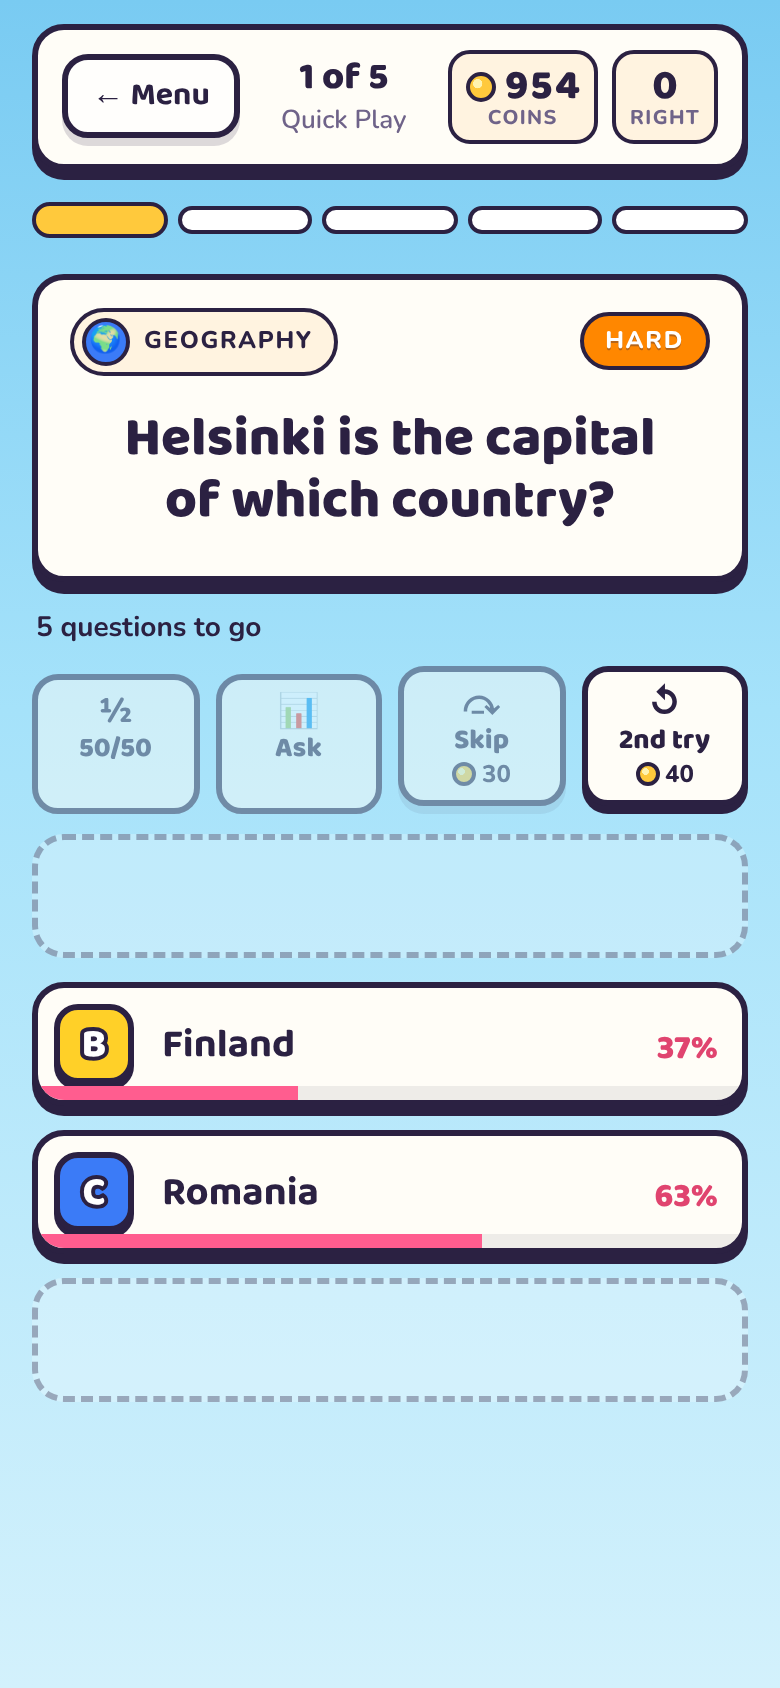
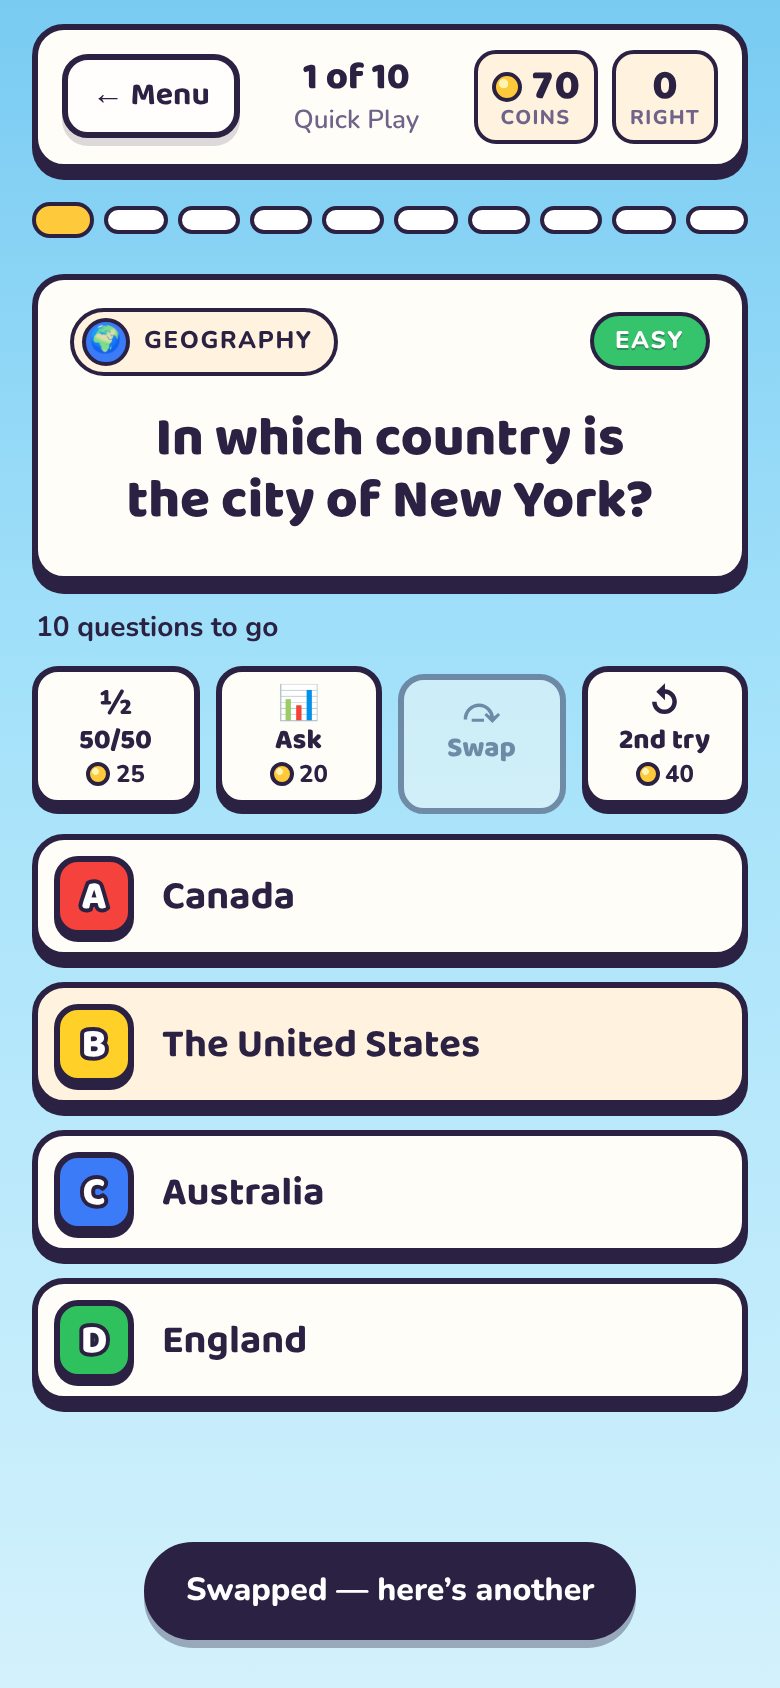
Call the Skip lifeline Swap
Button, how-to text, toast and README now say Swap; the keyboard key is
S. The internal key stays 'skip' so saved climbs keep their prices.
Build 17.

Claude-Session: https://claude.ai/code/session_013yA3rztD73qoU47xufJn3t

diff --git a/index.html b/index.html
@@ -7,11 +7,11 @@
 <meta name="theme-color" content="#79cbf2">
 <meta name="apple-mobile-web-app-title" content="Endless Quiz">
 <link rel="icon" href="favicon.ico" sizes="any">
-<link rel="icon" href="assets/favicon-32.png?v=16" type="image/png" sizes="32x32">
-<link rel="apple-touch-icon" href="assets/apple-touch-icon.png?v=16">
+<link rel="icon" href="assets/favicon-32.png?v=17" type="image/png" sizes="32x32">
+<link rel="apple-touch-icon" href="assets/apple-touch-icon.png?v=17">
 <link rel="manifest" href="manifest.webmanifest">
-<link rel="stylesheet" href="fonts.css?v=16">
-<link rel="stylesheet" href="styles.css?v=16">
+<link rel="stylesheet" href="fonts.css?v=17">
+<link rel="stylesheet" href="styles.css?v=17">
 </head>
 <body>
 
@@ -109,9 +109,9 @@
         <span class="lifeline__name">Ask</span>
         <span class="lifeline__cost"><i class="coin" aria-hidden="true"></i><span></span></span>
       </button>
-      <button class="lifeline" type="button" data-life="skip" aria-label="Skip: swap for another question">
+      <button class="lifeline" type="button" data-life="skip" aria-label="Swap: get a different question">
         <span class="lifeline__icon" aria-hidden="true">⤼</span>
-        <span class="lifeline__name">Skip</span>
+        <span class="lifeline__name">Swap</span>
         <span class="lifeline__cost"><i class="coin" aria-hidden="true"></i><span></span></span>
       </button>
       <button class="lifeline" type="button" data-life="retry" aria-label="Second chance: if you get it wrong, pick again">
@@ -373,7 +373,7 @@
       <article class="card guide__card">
         <div class="guide__art" aria-hidden="true">
           <span class="lifeline lifeline--mini"><b>50/50</b><span class="lifeline__cost"><i class="coin"></i>25</span></span>
-          <span class="lifeline lifeline--mini"><b>Skip</b><span class="lifeline__cost"><i class="coin"></i>30</span></span>
+          <span class="lifeline lifeline--mini"><b>Swap</b><span class="lifeline__cost"><i class="coin"></i>30</span></span>
         </div>
         <h3 class="card__title">Coins &amp; the 50/50</h3>
         <p>Every right answer earns coins. Harder questions pay more:</p>
@@ -387,7 +387,7 @@
         <ul class="sheet__list">
           <li><b>50/50</b> removes two wrong answers.</li>
           <li><b>Ask the audience</b> shows how a crowd voted. They’re usually right on easy questions — less so on hard ones.</li>
-          <li><b>Skip</b> swaps the question for another just as hard.</li>
+          <li><b>Swap</b> trades the question for another just as hard.</li>
           <li><b>Second chance</b>: if your answer is wrong, you get to pick again instead of losing the question.</li>
         </ul>
         <p>Each lifeline’s price <b>doubles</b> every time you use it in the same game. A question you get right with help pays half. There are no lifelines in the Daily Quiz.</p>
@@ -426,14 +426,14 @@
 
 <p id="toast" class="toast" role="status" hidden></p>
 
-<script src="js/questions.js?v=16"></script>
-<script src="js/bank.js?v=16"></script>
-<script src="js/levels.js?v=16"></script>
-<script src="js/store.js?v=16"></script>
-<script src="js/sound.js?v=16"></script>
-<script src="js/native.js?v=16"></script>
-<script src="js/daily.js?v=16"></script>
-<script src="js/reminders.js?v=16"></script>
-<script src="js/app.js?v=16"></script>
+<script src="js/questions.js?v=17"></script>
+<script src="js/bank.js?v=17"></script>
+<script src="js/levels.js?v=17"></script>
+<script src="js/store.js?v=17"></script>
+<script src="js/sound.js?v=17"></script>
+<script src="js/native.js?v=17"></script>
+<script src="js/daily.js?v=17"></script>
+<script src="js/reminders.js?v=17"></script>
+<script src="js/app.js?v=17"></script>
 </body>
 </html>

diff --git a/js/app.js b/js/app.js
@@ -18,7 +18,7 @@
  * — answers in the same places — for anyone.
  *
  * Coins are earned by answering and spent on lifelines — 50/50, Ask the
- * audience, Skip and Second chance. Each one's price doubles every time it is
+ * audience, Swap and Second chance. Each one's price doubles every time it is
  * used in a game, each can be used once per question, and a question got
  * right with help pays half — so they're a rescue, not a habit. No lifelines
  * in the Daily Quiz, so everyone's score there means the same thing. */
@@ -27,14 +27,14 @@
 
   const VERSION = '0.5';
   // Must match version.json and the ?v= on index.html's links. Bump all three together.
-  const BUILD = 16;
+  const BUILD = 17;
   const RUNGS = 20;
   const CHECKPOINTS = [4, 8, 12, 16];
   // Lifelines: starting price, and what each costs after n uses this game
   const LIFELINES = {
     fifty: { name: '50/50', base: 25 },
     audience: { name: 'Ask the audience', base: 20 },
-    skip: { name: 'Skip', base: 30 },
+    skip: { name: 'Swap', base: 30 },     // shown as "Swap"; 'skip' inside, as saved climbs use it
     retry: { name: 'Second chance', base: 40 },
   };
   const LIFE_KEYS = Object.keys(LIFELINES);
@@ -449,8 +449,8 @@
       b.querySelector('.lifeline__cost span').textContent = price(k);
       b.classList.toggle('is-used', used);
       b.classList.toggle('is-armed', k === 'retry' && run.retryArmed);
-      // Skip makes no sense once a lifeline has already been spent on this
-      // question, and the others none after Skip — keep it one thing at a time.
+      // Swap makes no sense once a lifeline has already been spent on this
+      // question, and the others none after Swap — keep it one thing at a time.
       b.disabled = run.answered || used || saved.coins < price(k) ||
         (k === 'skip' && (run.now.fifty || run.now.audience || run.retryArmed));
     });
@@ -546,9 +546,9 @@
       if (run.mode !== 'climb') run.queue[run.index] = { item: swap, order };
       Sound.fifty();
       render(swap, order);
-      run.now.skip = true;     // one skip per question
+      run.now.skip = true;     // one swap per question
       drawStats();
-      toast('Skipped — here’s another');
+      toast('Swapped — here’s another');
       return;
     }
 
@@ -1177,7 +1177,7 @@
   els.next.addEventListener('click', next);
 
   // Keyboard: 1–4 or A–D to answer, Enter / Space for next. Lifelines:
-  // H 50/50, P ask the audience (poll), K skip, R second chance.
+  // H 50/50, P ask the audience (poll), S swap, R second chance.
   document.addEventListener('keydown', (e) => {
     if (!$('screen-quiz').classList.contains('is-active') || els.confirm.open || $('report-dialog').open) return;
     const k = e.key.toUpperCase();
@@ -1185,8 +1185,8 @@
     if (!run.answered && pick >= 0) {
       const btn = els.answers.querySelectorAll('.answer')[pick];
       if (btn && !btn.disabled) btn.click();
-    } else if (!run.answered && 'HPKR'.includes(k) && k.length === 1) {
-      useLifeline({ H: 'fifty', P: 'audience', K: 'skip', R: 'retry' }[k]);
+    } else if (!run.answered && 'HPSR'.includes(k) && k.length === 1) {
+      useLifeline({ H: 'fifty', P: 'audience', S: 'skip', R: 'retry' }[k]);
     } else if (run.answered && (e.key === 'Enter' || e.key === ' ') && document.activeElement !== els.next) {
       e.preventDefault();
       els.next.click();

diff --git a/README.md b/README.md
@@ -14,7 +14,7 @@ Played online at https://polite-carrot.github.io/Endless-Puzzle/ via GitHub Page
 
 **Every release, bump the build number in three places together:** the `?v=`
 on the links in `index.html`, `BUILD` in `js/app.js`, and `version.json`
-(currently 16).
+(currently 17).
 GitHub Pages lets browsers keep files for ten minutes — the page itself
 included — so a phone can keep running an old build. The `?v=` stops a new
 page loading an old stylesheet; `version.json` (fetched uncached on start
@@ -142,20 +142,20 @@ buy four **lifelines**, in a row under each question:
 |----------|----------:|--------------|
 | **50/50** | 25 | Removes two wrong answers. |
 | **Ask the audience** | 20 | Shows how a crowd voted, as a bar on each answer. The crowd's favourite is right every time on Easy, 90% on Normal, 75% on Hard and 60% on Extra Hard — seeded by the question, so asking twice gets the same vote. |
-| **Skip** | 30 | Swaps the question for another of the same difficulty that hasn't come up in this game (and, in Quick Play, from the chosen categories). |
+| **Swap** | 30 | Trades the question for another of the same difficulty that hasn't come up in this game (and, in Quick Play, from the chosen categories). |
 | **Second chance** | 40 | Bought before answering. If your answer is wrong it's struck out and you pick again — no fall in the Climb, no red mark in Quick Play. |
 
 - Each lifeline's price **doubles every time it's used in a game** (so 25,
   50, 100… for the 50/50), and each can be used once per question.
-- Skip is one thing at a time: it can't be used after another lifeline on
+- Swap is one thing at a time: it can't be used after another lifeline on
   the same question, and the others reset for the new question.
-- A question got right **with help pays half**. A skipped-to question pays
+- A question got right **with help pays half**. A swapped-in question pays
   in full.
 - **No lifelines in the Daily Quiz**, so everyone's daily score means the same.
 - Lifeline prices are part of a saved climb, so leaving and coming back
   doesn't reset them.
 
-Keys: `H` 50/50 · `P` ask the audience (poll) · `K` skip · `R` second chance.
+Keys: `H` 50/50 · `P` ask the audience (poll) · `S` swap · `R` second chance.
 
 ## The question bank
 
